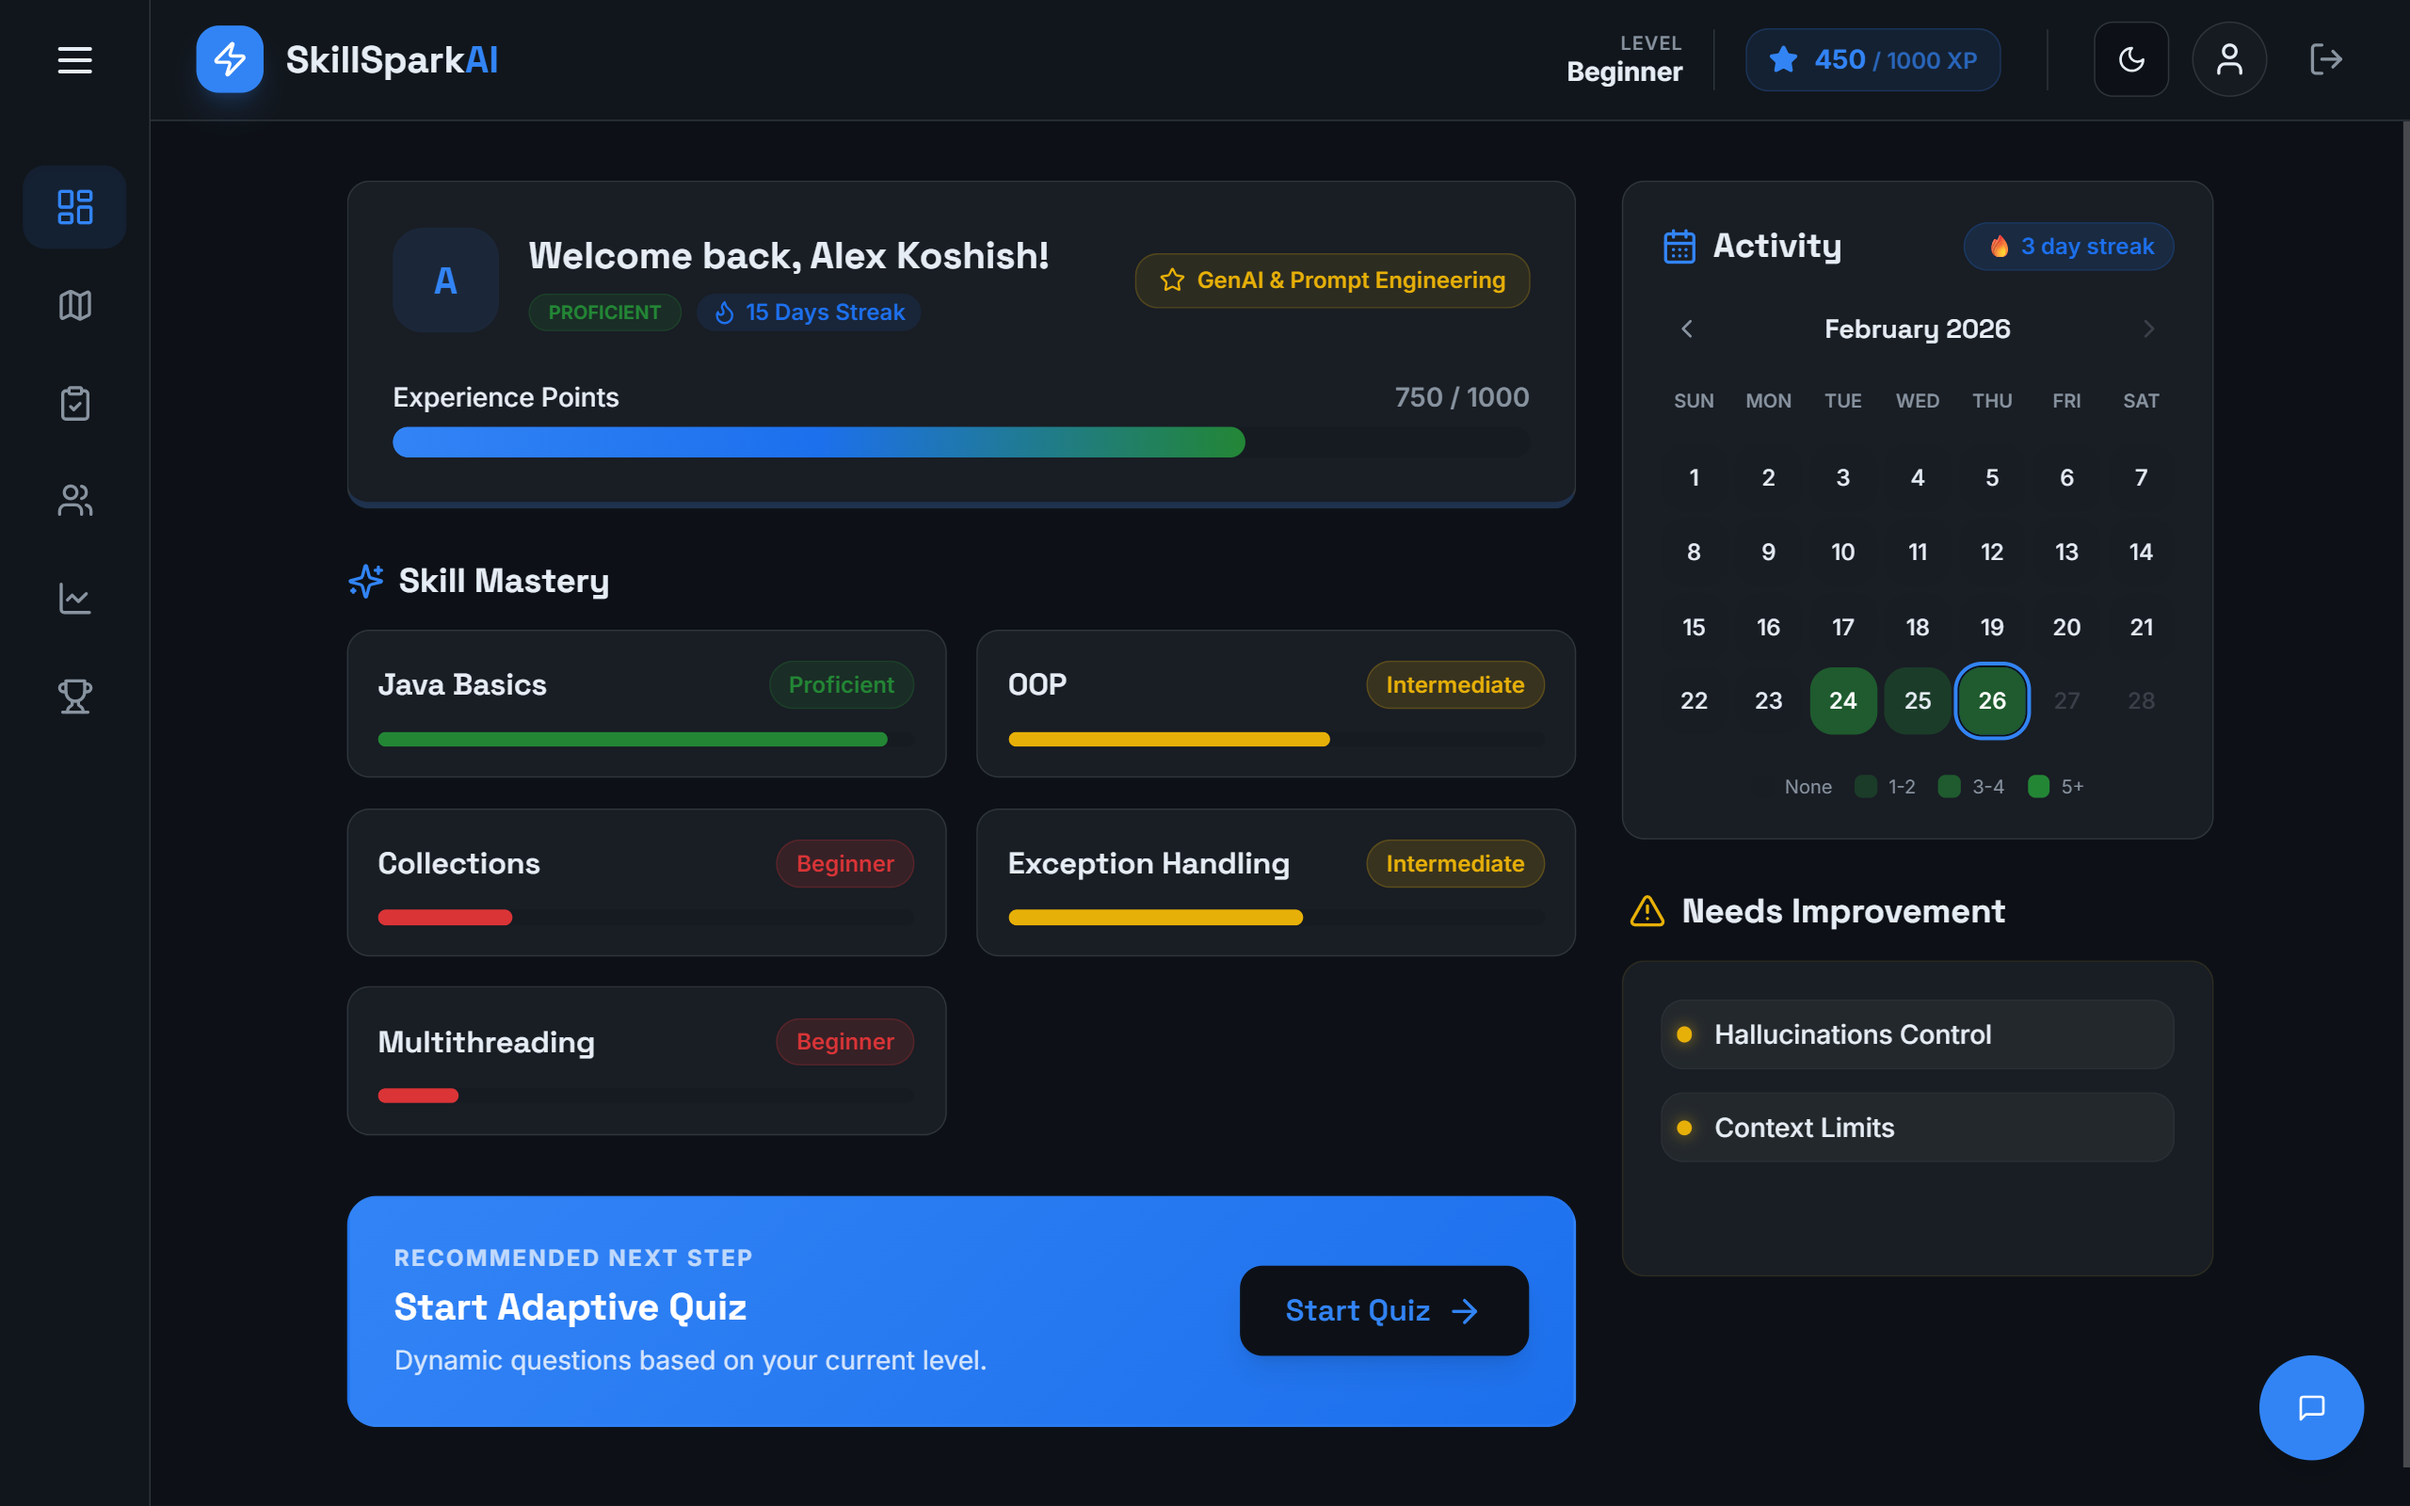
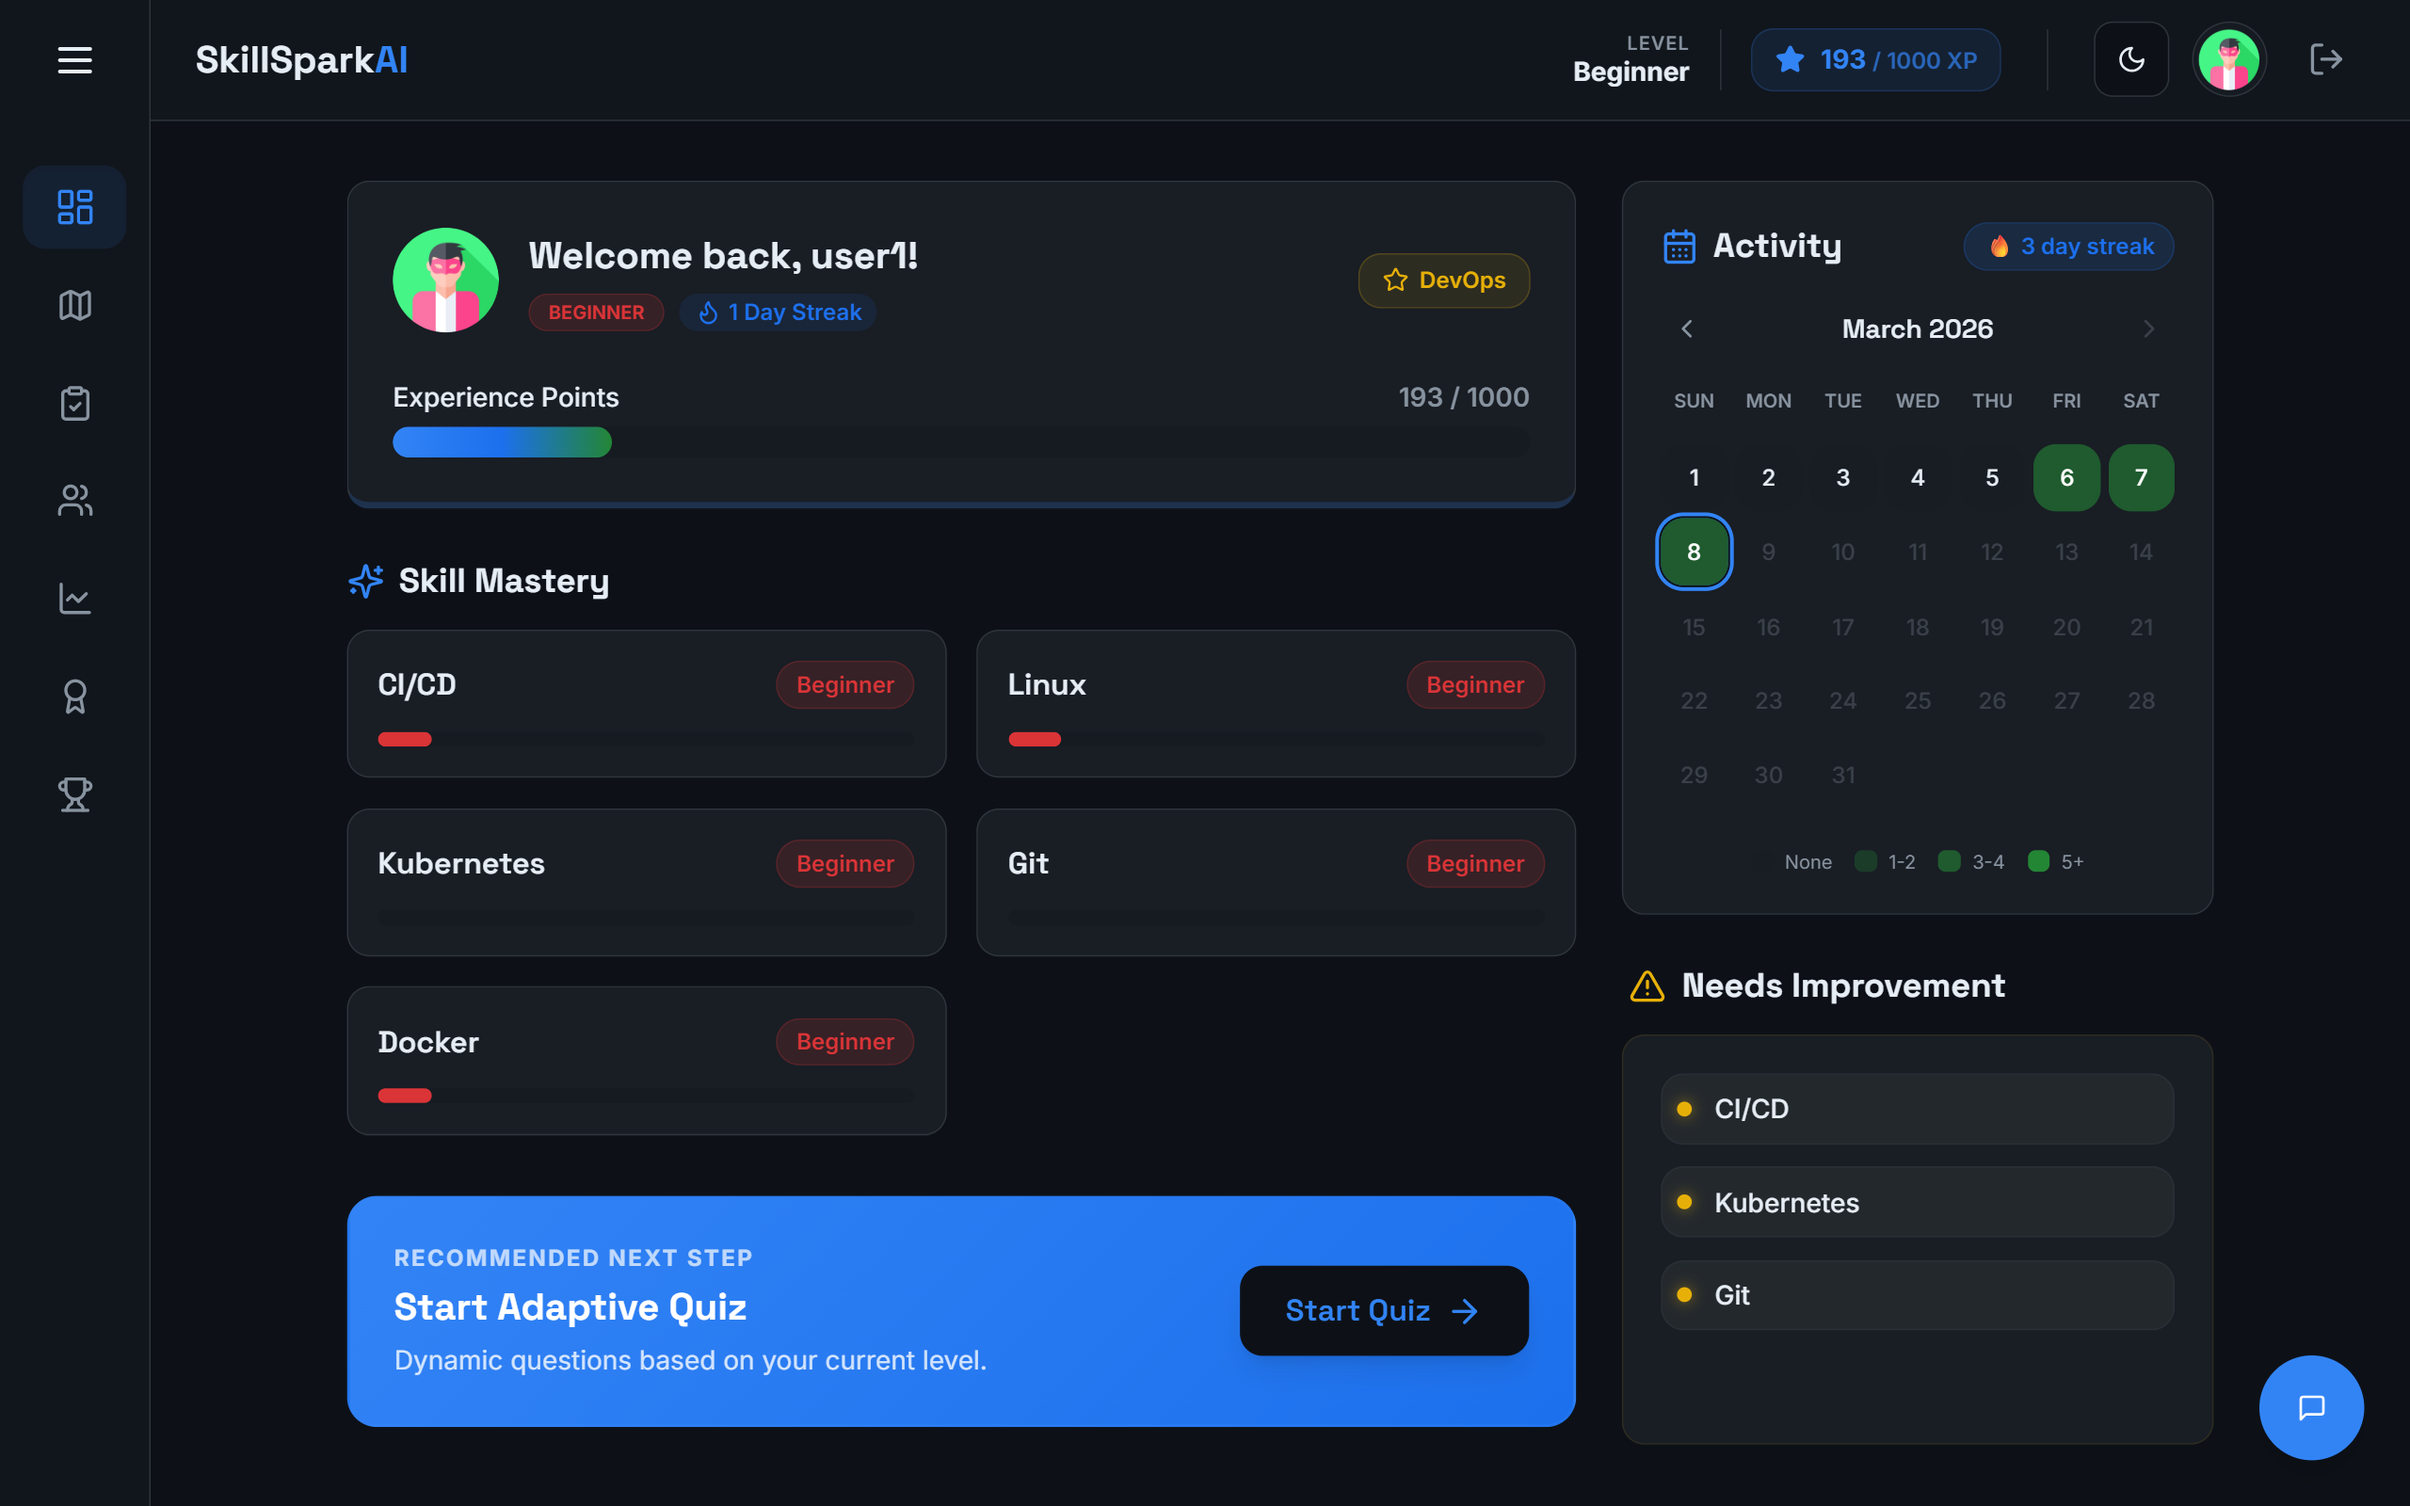
updated landing

diff --git a/src/pages/Landing.tsx b/src/pages/Landing.tsx
@@ -168,21 +168,19 @@ export default function Landing() {
                             </div>
                             <div className="flex-1 relative w-full">
                                 <div className="absolute inset-0 bg-gradient-to-r from-[#00F5D4]/20 to-blue-500/20 rounded-2xl blur-xl transform rotate-3 scale-105"></div>
-                                <div className="relative bg-[#121212] border border-white/10 rounded-2xl p-6 shadow-2xl backdrop-blur-sm">
-                                    <div className="flex items-center gap-2 mb-4">
+                                <div className="relative bg-[#121212] border border-white/10 rounded-2xl p-2 md:p-4 shadow-2xl backdrop-blur-sm">
+                                    <div className="flex items-center gap-2 mb-3 px-2">
                                         <div className="w-3 h-3 rounded-full bg-red-500/80"></div>
                                         <div className="w-3 h-3 rounded-full bg-yellow-500/80"></div>
                                         <div className="w-3 h-3 rounded-full bg-green-500/80"></div>
                                     </div>
-                                    <div className="space-y-4">
-                                        <div className="h-8 bg-white/5 rounded-md w-1/3"></div>
-                                        <div className="h-32 bg-white/5 rounded-md w-full relative overflow-hidden">
-                                            <div className="absolute left-0 bottom-0 w-[75%] h-[2px] bg-[#00F5D4] shadow-[0_0_10px_rgba(0,245,212,0.5)]"></div>
-                                        </div>
-                                        <div className="flex gap-4">
-                                            <div className="h-24 bg-white/5 rounded-md w-1/2"></div>
-                                            <div className="h-24 bg-white/5 rounded-md w-1/2"></div>
-                                        </div>
+                                    <div className="rounded-lg overflow-hidden border border-white/5">
+                                        <img
+                                            src="/src/assets/dashboard.png"
+                                            alt="Dashboard Preview"
+                                            className="w-full h-auto object-cover"
+                                            onError={(e) => { e.currentTarget.style.display = 'none'; }}
+                                        />
                                     </div>
                                 </div>
                             </div>
